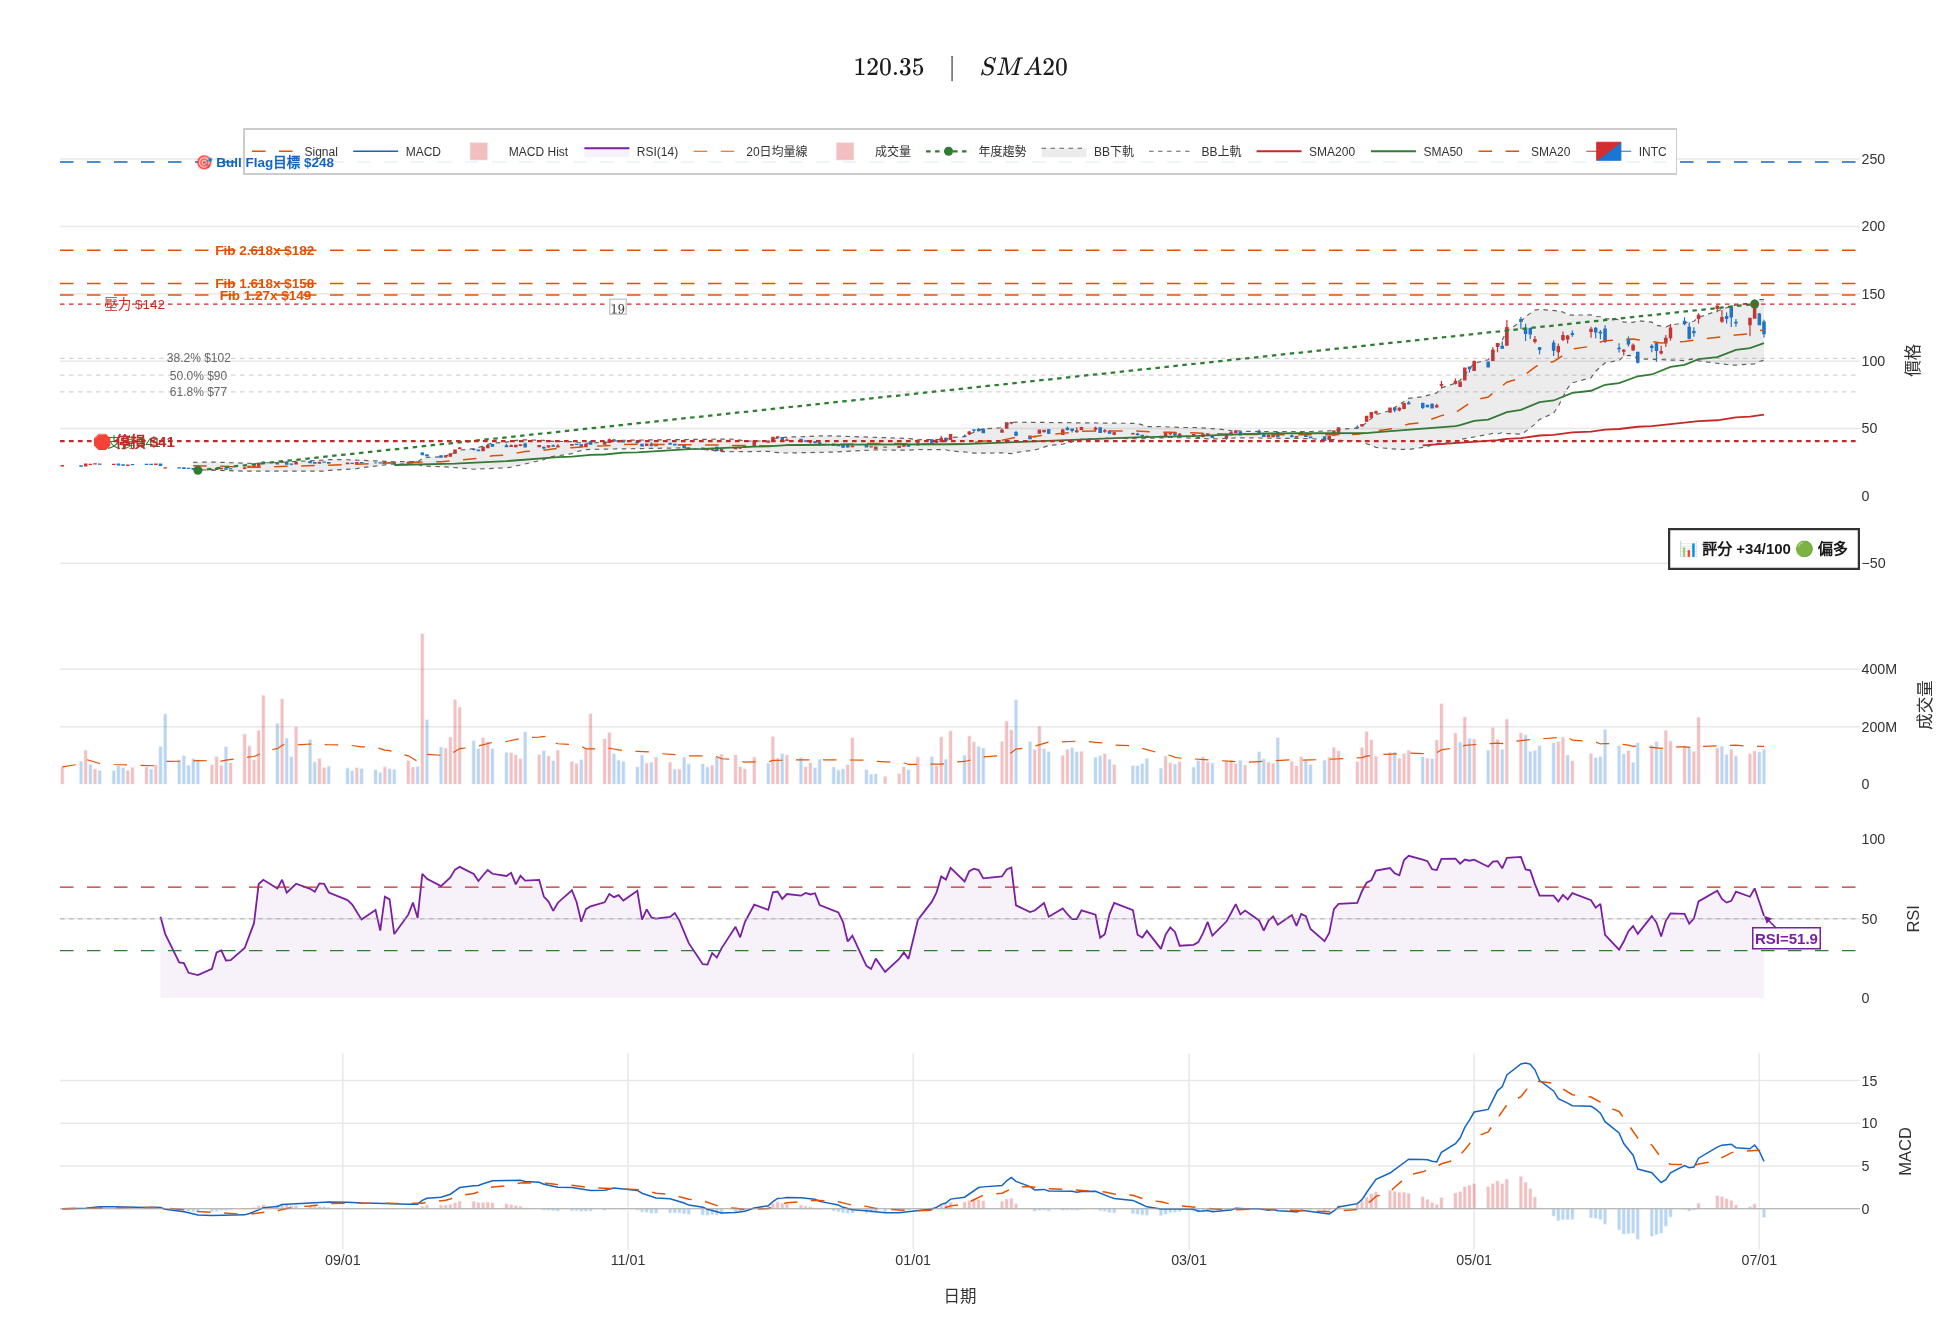
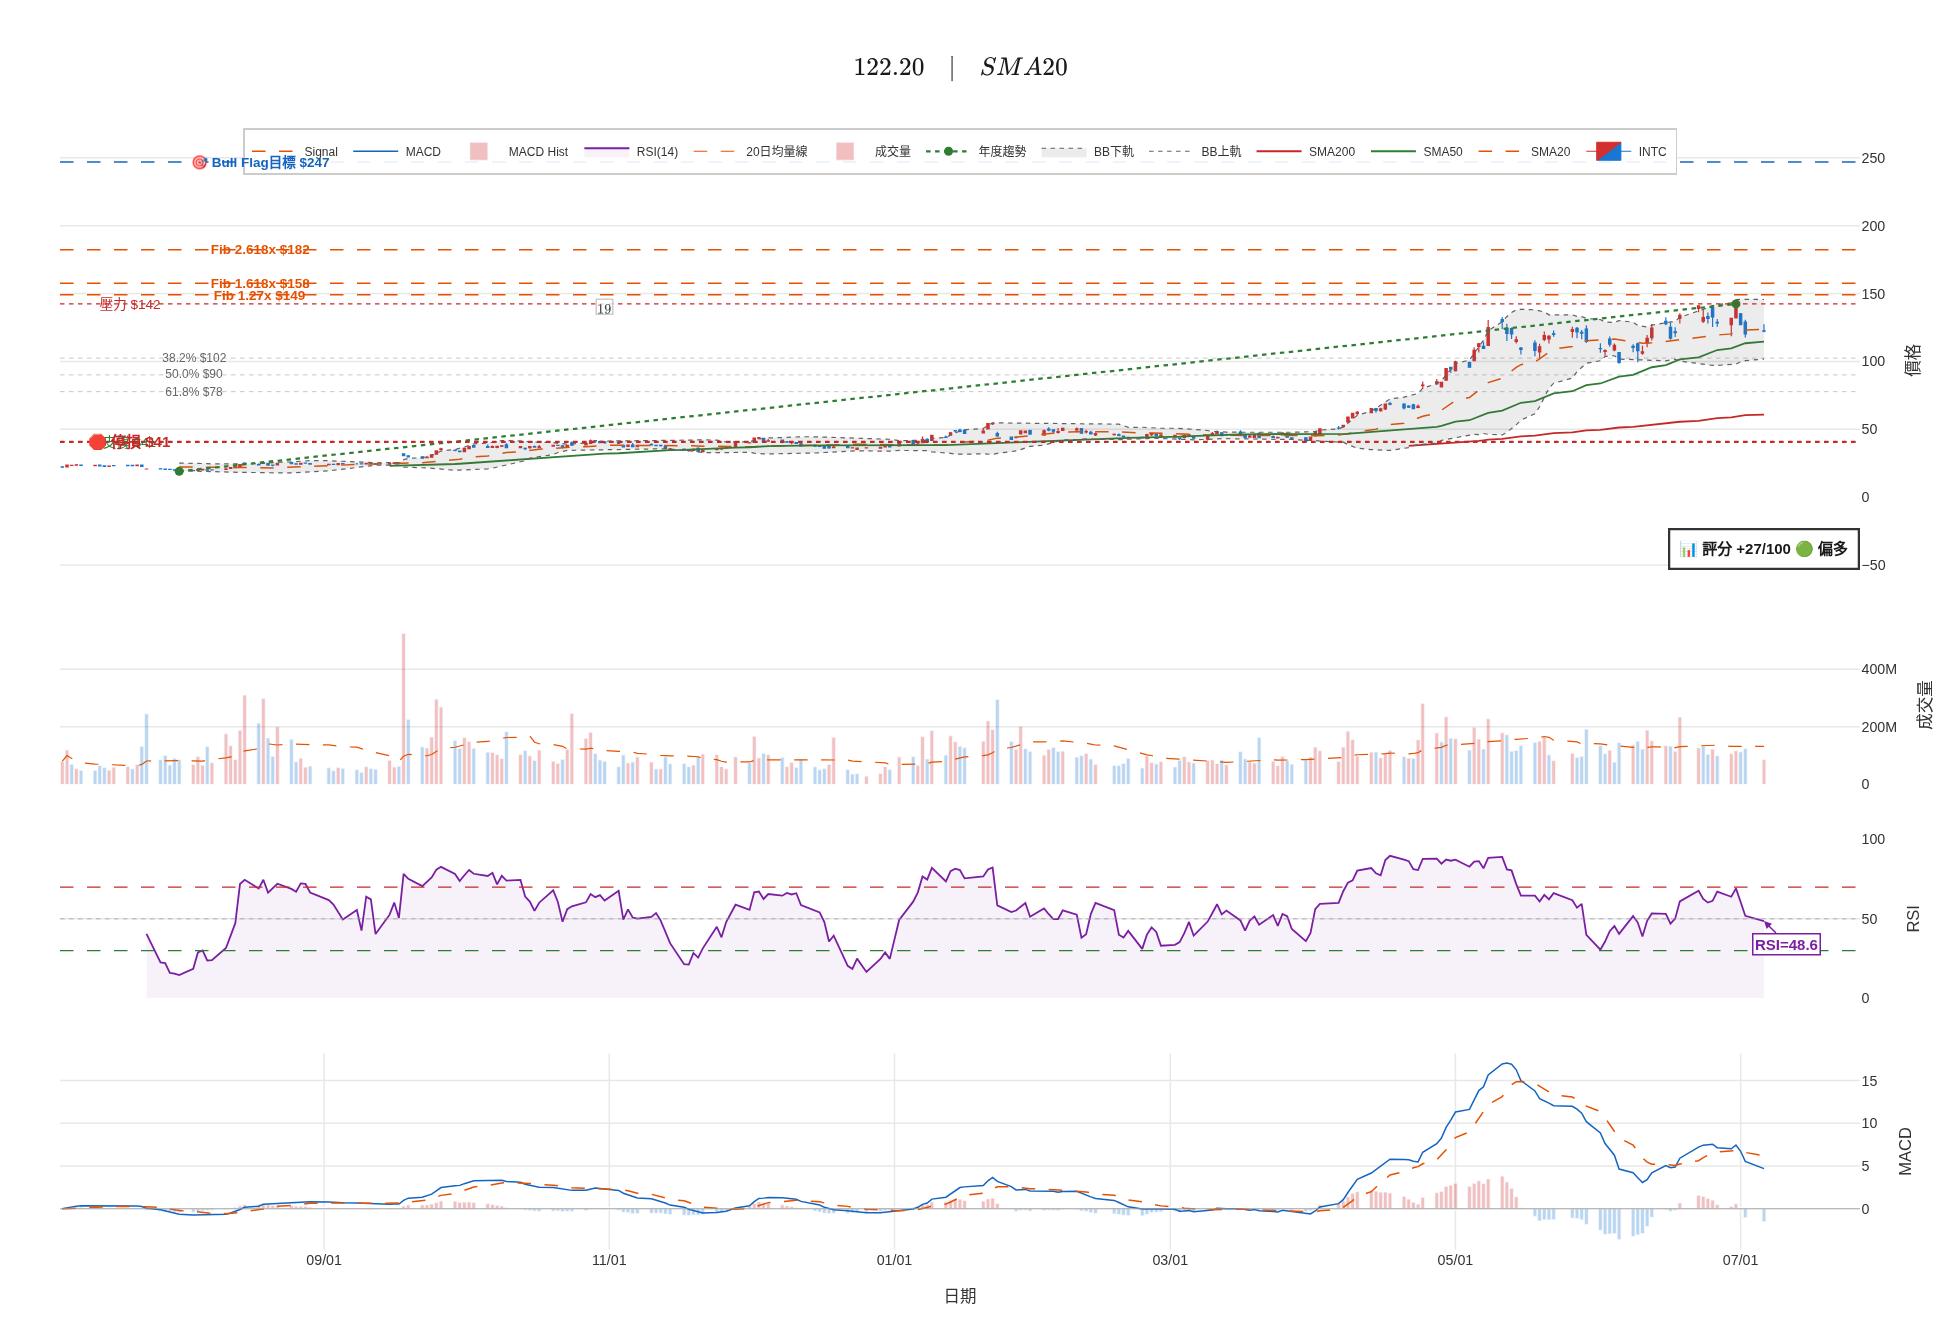
charts: 更新 2026-07-07 技術圖

diff --git a/charts/index.html b/charts/index.html
@@ -39,27 +39,27 @@ body { font-family:'Noto Sans TC',sans-serif; background:#f5f0e8; color:#1a1714;
   <a href="../">← 回首頁</a>
 </div>
 <div class="container">
-  <div class="date-badge">📅 2026/07/06 — 週一盤前</div>
+  <div class="date-badge">📅 2026/07/07 — 週二盤前</div>
   <div class="chart-grid">
     <div class="chart-card">
       <img src="dji.png" alt="道瓊工業指數">
-      <div class="info"><h3>道瓊工業指數 DJI</h3><p>52,900.07 (+1.14%) · RSI 81.3 🔴</p></div>
+      <div class="info"><h3>道瓊工業指數 DJI</h3><p>53,055.91 (+0.29%) · RSI 80.1 🔴 超買</p></div>
     </div>
     <div class="chart-card">
       <img src="sox.png" alt="費城半導體指數">
-      <div class="info"><h3>費城半導體指數 SOX</h3><p>12,626.22 (-5.44%) · RSI 46.6</p></div>
+      <div class="info"><h3>費城半導體指數 SOX</h3><p>12,900.14 (+2.17%) · RSI 47.1</p></div>
     </div>
     <div class="chart-card">
       <img src="ixic.png" alt="納斯達克指數">
-      <div class="info"><h3>納斯達克指數 IXIC</h3><p>25,832.67 (-0.80%) · RSI 50.3</p></div>
+      <div class="info"><h3>納斯達克指數 IXIC</h3><p>26,121.16 (+1.12%) · RSI 52.4</p></div>
     </div>
     <div class="chart-card">
       <img src="tsm.png" alt="台積電 ADR">
-      <div class="info"><h3>台積電 ADR (TSM)</h3><p>$434.16 (-2.27%) · RSI 53.1</p></div>
+      <div class="info"><h3>台積電 ADR (TSM)</h3><p>$451.79 (+4.06%) · RSI 56.2</p></div>
     </div>
     <div class="chart-card">
       <img src="intc.png" alt="Intel">
-      <div class="info"><h3>Intel (INTC)</h3><p>$120.35 (-5.25%) · RSI 51.9</p></div>
+      <div class="info"><h3>Intel (INTC)</h3><p>$122.20 (+1.54%) · RSI 48.6</p></div>
     </div>
     <div class="chart-card" style="cursor:pointer;" onclick="location.href='taiex-technical.html'">
       <div style="height:160px;background:linear-gradient(135deg,#1a1a2e,#16213e);display:flex;align-items:center;justify-content:center;">
